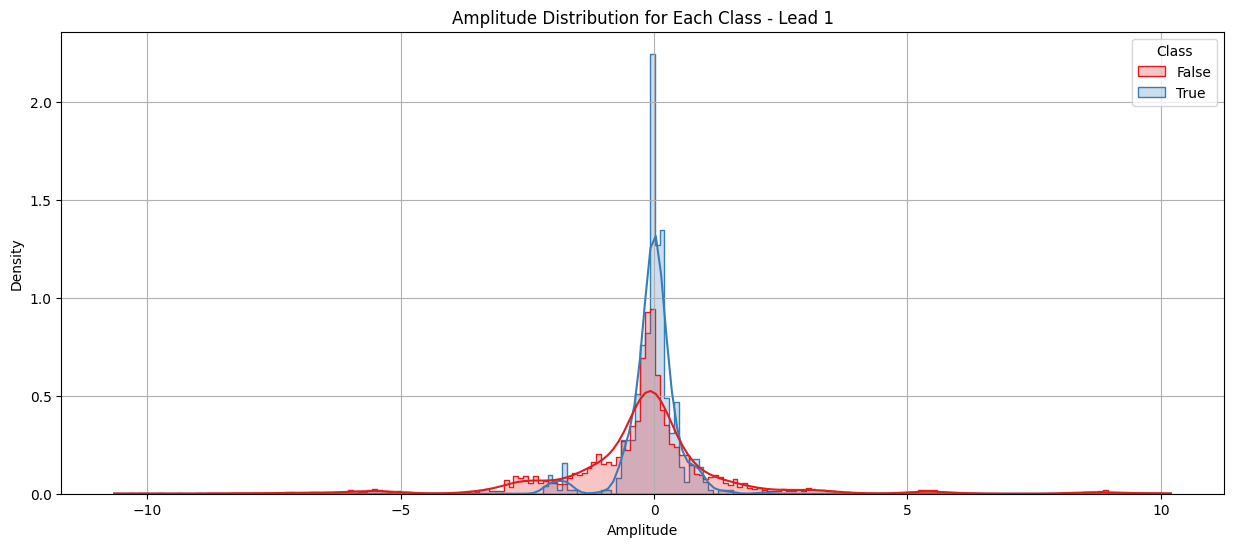
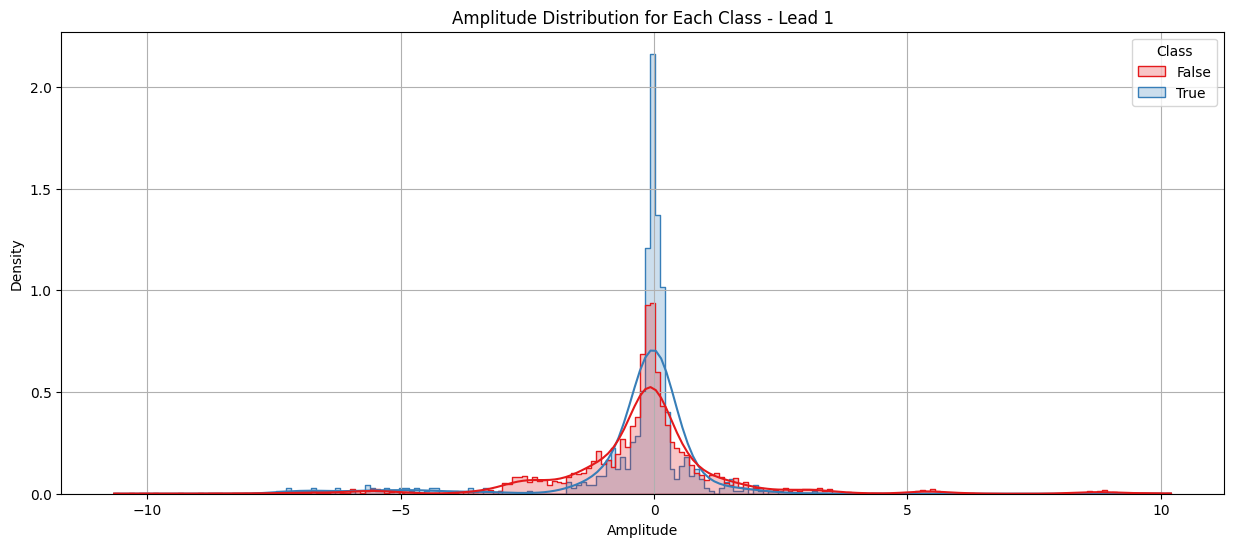
data analysis

Changed region(s): [[0.0308, 0.404, 0.9862, 0.9013], [0.0308, 0.3419, 0.9862, 0.3729], [0.0308, 0.1554, 0.0616, 0.1865]]

diff --git a/data_analysis.py b/data_analysis.py
@@ -8,6 +8,7 @@ import matplotlib.pyplot as plt
 import seaborn as sns
 from sklearn.preprocessing import StandardScaler
 
+pd.options.display.max_rows = 999
 
 data_folder = "data/micro_code_sami/"
 print('Finding the Challenge data...')
@@ -103,10 +104,6 @@ for i in range(num_records):
 # ======================================
 # Step 1: Organize data into one big DataFrame
 # ======================================
-
-save_path = "plots/data_analysis/"
-
-
 def create_dataframe(all_peaks_values, label):
     rows = []
     for sample_idx, sample in enumerate(all_peaks_values):
@@ -122,131 +119,138 @@ def create_dataframe(all_peaks_values, label):
                     })
     return pd.DataFrame(rows)
 
-# Build DataFrames for both classes
-df_pos = create_dataframe(sami_peaks_values_positive, label=True)
-df_neg = create_dataframe(code15_peaks_values_negative, label=False)
+def analyse(positive_class_dataset, negative_class_dataset, experiment_name):
+    save_path = "plots/data_analysis/"
 
-# Concatenate into one DataFrame
-df = pd.concat([df_pos, df_neg], ignore_index=True)
-
-print("Dataframe head:")
-print(df.head())
-
-# ======================================
-# Step 2: Descriptive statistics
-# ======================================
-print("\n=== Descriptive statistics by Wave and Class ===")
-desc_stats_wave_class = df.groupby(["Wave", "Class"])["Amplitude"].describe()
-print(desc_stats_wave_class)
-
-print("\n=== Descriptive statistics by Lead, Wave and Class ===")
-desc_stats_lead_wave_class = df.groupby(["Lead", "Wave", "Class"])["Amplitude"].describe()
-print(desc_stats_lead_wave_class)
-
-# ======================================
-# Step 3: Percentile analysis
-# ======================================
-percentiles = [1, 5, 25, 50, 75, 95, 99]
-
-print("\n=== Percentiles by Wave and Class ===")
-percentile_wave_class = df.groupby(["Wave", "Class"])["Amplitude"].quantile(np.array(percentiles)/100).unstack()
-print(percentile_wave_class)
-
-print("\n=== Percentiles by Lead, Wave and Class ===")
-percentile_lead_wave_class = df.groupby(["Lead", "Wave", "Class"])["Amplitude"].quantile(np.array(percentiles)/100).unstack()
-print(percentile_lead_wave_class)
-
-# ======================================
-# Step 4: EDA Global - Compare Classes
-# ======================================
-
-# 4a. Histograms by Class
-plt.figure(figsize=(15, 8))
-sns.histplot(data=df, x="Amplitude", hue="Class", element="step", kde=True, stat="density", common_norm=False, palette="Set1")
-plt.title("Global Amplitude Distribution - Positive vs Negative Classes")
-plt.xlabel("Amplitude")
-plt.ylabel("Density")
-plt.grid(True)
-plt.savefig(os.path.join(save_path, "global_histogram_classes.png"), bbox_inches="tight")
-plt.close()
-
-# 4b. Boxplot by Class
-plt.figure(figsize=(15, 6))
-sns.boxplot(data=df, x="Wave", y="Amplitude", hue="Class", palette="Set2")
-plt.title("Boxplot of Amplitudes by ECG Wave - Positive vs Negative Classes")
-plt.grid(True)
-plt.legend(title="Class", labels=["Negative", "Positive"])
-plt.savefig(os.path.join(save_path, "boxplot_wave_classes.png"), bbox_inches="tight")
-plt.close()
-
-# 4c. Violin Plot by Class
-plt.figure(figsize=(15, 6))
-sns.violinplot(data=df, x="Wave", y="Amplitude", hue="Class", split=True, inner="quartile", palette="Set2")
-plt.title("Violin Plot of Amplitudes by ECG Wave - Positive vs Negative Classes")
-plt.grid(True)
-plt.legend(title="Class", labels=["Negative", "Positive"])
-plt.savefig(os.path.join(save_path, "violinplot_wave_classes.png"), bbox_inches="tight")
-plt.close()
-
-# 4d. Standardized Strip Plot
-scaler = StandardScaler()
-df['Amplitude_Standardized'] = scaler.fit_transform(df[['Amplitude']])
-
-plt.figure(figsize=(15, 6))
-sns.stripplot(data=df, x="Wave", y="Amplitude_Standardized", hue="Class", dodge=True, jitter=True, alpha=0.5, palette="Set1")
-plt.title("Standardized Amplitudes - Stripplot by ECG Wave and Class")
-plt.grid(True)
-plt.legend(title="Class", labels=["Negative", "Positive"])
-plt.savefig(os.path.join(save_path, "stripplot_wave_classes.png"), bbox_inches="tight")
-plt.close()
-
-# ======================================
-# Step 5: Per-Lead EDA - Compare Classes
-# ======================================
-
-# 5a. Per-Lead Boxplots
-plt.figure(figsize=(20, 12))
-sns.boxplot(data=df, x="Wave", y="Amplitude", hue="Class", palette="Set3")
-plt.title("Boxplot of Amplitudes by ECG Wave and Lead - Class Comparison")
-plt.grid(True)
-plt.legend(title="Class", labels=["Negative", "Positive"])
-plt.savefig(os.path.join(save_path, "boxplot_wave_lead_classes.png"), bbox_inches="tight")
-plt.close()
-
-# 5b. Per-Lead Violin plots
-g = sns.catplot(
-    data=df, kind="violin", x="Wave", y="Amplitude", hue="Class", split=True,
-    col="Lead", col_wrap=4, height=4, aspect=1, palette="Set2", sharey=False
-)
-g.fig.suptitle("Violin Plots by Lead - Positive vs Negative Classes", y=1.02)
-plt.grid(True)
-g.savefig(os.path.join(save_path, "violinplot_per_lead_classes.png"), bbox_inches="tight")
-plt.close()
-
-# 5c. Histograms per Lead
-for lead in sorted(df['Lead'].unique()):
-    plt.figure(figsize=(15, 6))
-    sns.histplot(
-        data=df[df['Lead'] == lead], x="Amplitude", hue="Class", element="step",
-        kde=True, stat="density", common_norm=False, palette="Set1"
-    )
-    plt.title(f"Amplitude Distribution for Each Class - Lead {lead}")
+    # Build DataFrames for both classes
+    df_pos = create_dataframe(positive_class_dataset, label=True)
+    df_neg = create_dataframe(negative_class_dataset, label=False)
+    
+    # Concatenate into one DataFrame
+    df = pd.concat([df_pos, df_neg], ignore_index=True)
+    
+    print("Dataframe head:")
+    print(df.head())
+    
+    # ======================================
+    # Step 2: Descriptive statistics
+    # ======================================
+    print("\n=== Descriptive statistics by Wave and Class ===")
+    desc_stats_wave_class = df.groupby(["Wave", "Class"])["Amplitude"].describe()
+    print(desc_stats_wave_class)
+    
+    print("\n=== Descriptive statistics by Lead, Wave and Class ===")
+    desc_stats_lead_wave_class = df.groupby(["Lead", "Wave", "Class"])["Amplitude"].describe()
+    print(desc_stats_lead_wave_class)
+    
+    # ======================================
+    # Step 3: Percentile analysis
+    # ======================================
+    percentiles = [1, 5, 25, 50, 75, 95, 99]
+    
+    print("\n=== Percentiles by Wave and Class ===")
+    percentile_wave_class = df.groupby(["Wave", "Class"])["Amplitude"].quantile(np.array(percentiles)/100).unstack()
+    print(percentile_wave_class)
+    
+    print("\n=== Percentiles by Lead, Wave and Class ===")
+    percentile_lead_wave_class = df.groupby(["Lead", "Wave", "Class"])["Amplitude"].quantile(np.array(percentiles)/100).unstack()
+    print(percentile_lead_wave_class)
+    
+    # ======================================
+    # Step 4: EDA Global - Compare Classes
+    # ======================================
+    
+    # 4a. Histograms by Class
+    plt.figure(figsize=(15, 8))
+    sns.histplot(data=df, x="Amplitude", hue="Class", element="step", kde=True, stat="density", common_norm=False, palette="Set1")
+    plt.title("Global Amplitude Distribution - Positive vs Negative Classes")
     plt.xlabel("Amplitude")
     plt.ylabel("Density")
     plt.grid(True)
-    plt.savefig(os.path.join(save_path, f"histogram_lead_{lead}.png"), bbox_inches="tight")
+    plt.savefig(os.path.join(save_path, f"{experiment_name}_global_histogram_classes.png"), bbox_inches="tight")
     plt.close()
-
-# 5d. Standardized Scatter by Lead
-for lead in sorted(df['Lead'].unique()):
+    
+    # 4b. Boxplot by Class
     plt.figure(figsize=(15, 6))
-    sns.stripplot(
-        data=df[df['Lead'] == lead],
-        x="Wave", y="Amplitude_Standardized", hue="Class",
-        dodge=True, jitter=True, alpha=0.5, palette="Set1"
-    )
-    plt.title(f"Standardized Amplitudes - Scatter by Wave and Class - Lead {lead}")
+    sns.boxplot(data=df, x="Wave", y="Amplitude", hue="Class", palette="Set2")
+    plt.title("Boxplot of Amplitudes by ECG Wave - Positive vs Negative Classes")
     plt.grid(True)
     plt.legend(title="Class", labels=["Negative", "Positive"])
-    plt.savefig(os.path.join(save_path, f"stripplot_lead_{lead}.png"), bbox_inches="tight")
+    plt.savefig(os.path.join(save_path, f"{experiment_name}_boxplot_wave_classes.png"), bbox_inches="tight")
     plt.close()
+    
+    # 4c. Violin Plot by Class
+    plt.figure(figsize=(15, 6))
+    sns.violinplot(data=df, x="Wave", y="Amplitude", hue="Class", split=True, inner="quartile", palette="Set2")
+    plt.title("Violin Plot of Amplitudes by ECG Wave - Positive vs Negative Classes")
+    plt.grid(True)
+    plt.legend(title="Class", labels=["Negative", "Positive"])
+    plt.savefig(os.path.join(save_path, f"{experiment_name}_violinplot_wave_classes.png"), bbox_inches="tight")
+    plt.close()
+    
+    # 4d. Standardized Strip Plot
+    scaler = StandardScaler()
+    df['Amplitude_Standardized'] = scaler.fit_transform(df[['Amplitude']])
+    
+    plt.figure(figsize=(15, 6))
+    sns.stripplot(data=df, x="Wave", y="Amplitude_Standardized", hue="Class", dodge=True, jitter=True, alpha=0.5, palette="Set1")
+    plt.title("Standardized Amplitudes - Stripplot by ECG Wave and Class")
+    plt.grid(True)
+    plt.legend(title="Class", labels=["Negative", "Positive"])
+    plt.savefig(os.path.join(save_path, f"{experiment_name}_stripplot_wave_classes.png"), bbox_inches="tight")
+    plt.close()
+    
+    # ======================================
+    # Step 5: Per-Lead EDA - Compare Classes
+    # ======================================
+    
+    # 5a. Per-Lead Boxplots
+    plt.figure(figsize=(20, 12))
+    sns.boxplot(data=df, x="Wave", y="Amplitude", hue="Class", palette="Set3")
+    plt.title("Boxplot of Amplitudes by ECG Wave and Lead - Class Comparison")
+    plt.grid(True)
+    plt.legend(title="Class", labels=["Negative", "Positive"])
+    plt.savefig(os.path.join(save_path, f"{experiment_name}_boxplot_wave_lead_classes.png"), bbox_inches="tight")
+    plt.close()
+    
+    # 5b. Per-Lead Violin plots
+    g = sns.catplot(
+        data=df, kind="violin", x="Wave", y="Amplitude", hue="Class", split=True,
+        col="Lead", col_wrap=4, height=4, aspect=1, palette="Set2", sharey=False
+    )
+    g.fig.suptitle("Violin Plots by Lead - Positive vs Negative Classes", y=1.02)
+    plt.grid(True)
+    g.savefig(os.path.join(save_path, f"{experiment_name}_violinplot_per_lead_classes.png"), bbox_inches="tight")
+    plt.close()
+    
+    # 5c. Histograms per Lead
+    for lead in sorted(df['Lead'].unique()):
+        plt.figure(figsize=(15, 6))
+        sns.histplot(
+            data=df[df['Lead'] == lead], x="Amplitude", hue="Class", element="step",
+            kde=True, stat="density", common_norm=False, palette="Set1"
+        )
+        plt.title(f"Amplitude Distribution for Each Class - Lead {lead}")
+        plt.xlabel("Amplitude")
+        plt.ylabel("Density")
+        plt.grid(True)
+        plt.savefig(os.path.join(save_path, f"histogram_lead_{lead}.png"), bbox_inches="tight")
+        plt.close()
+    
+    # 5d. Standardized Scatter by Lead
+    for lead in sorted(df['Lead'].unique()):
+        plt.figure(figsize=(15, 6))
+        sns.stripplot(
+            data=df[df['Lead'] == lead],
+            x="Wave", y="Amplitude_Standardized", hue="Class",
+            dodge=True, jitter=True, alpha=0.5, palette="Set1"
+        )
+        plt.title(f"Standardized Amplitudes - Scatter by Wave and Class - Lead {lead}")
+        plt.grid(True)
+        plt.legend(title="Class", labels=["Negative", "Positive"])
+        plt.savefig(os.path.join(save_path, f"stripplot_lead_{lead}.png"), bbox_inches="tight")
+        plt.close()
+
+
+analyse(sami_peaks_values_positive, code15_peaks_values_negative, "sami_vs_code_neg")
+analyse(code15_peaks_values_positive, code15_peaks_values_negative, "code_vs_code_neg")
